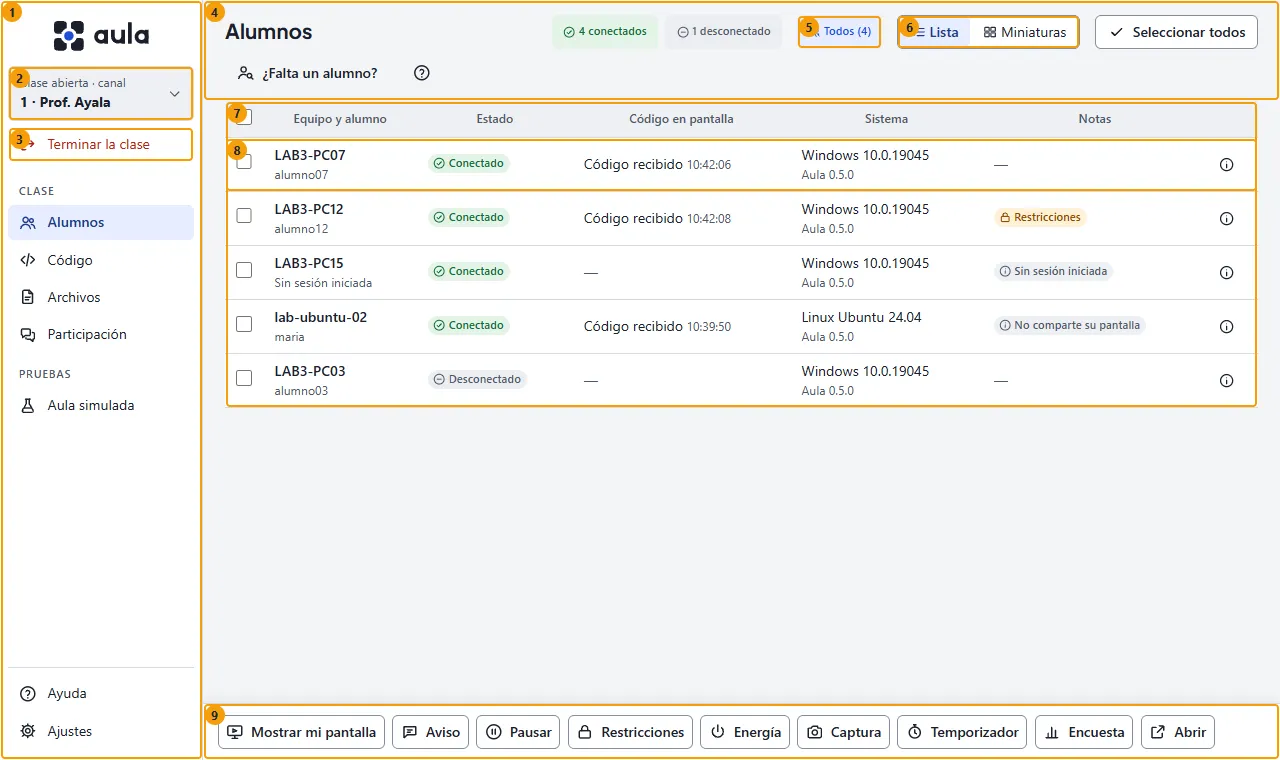
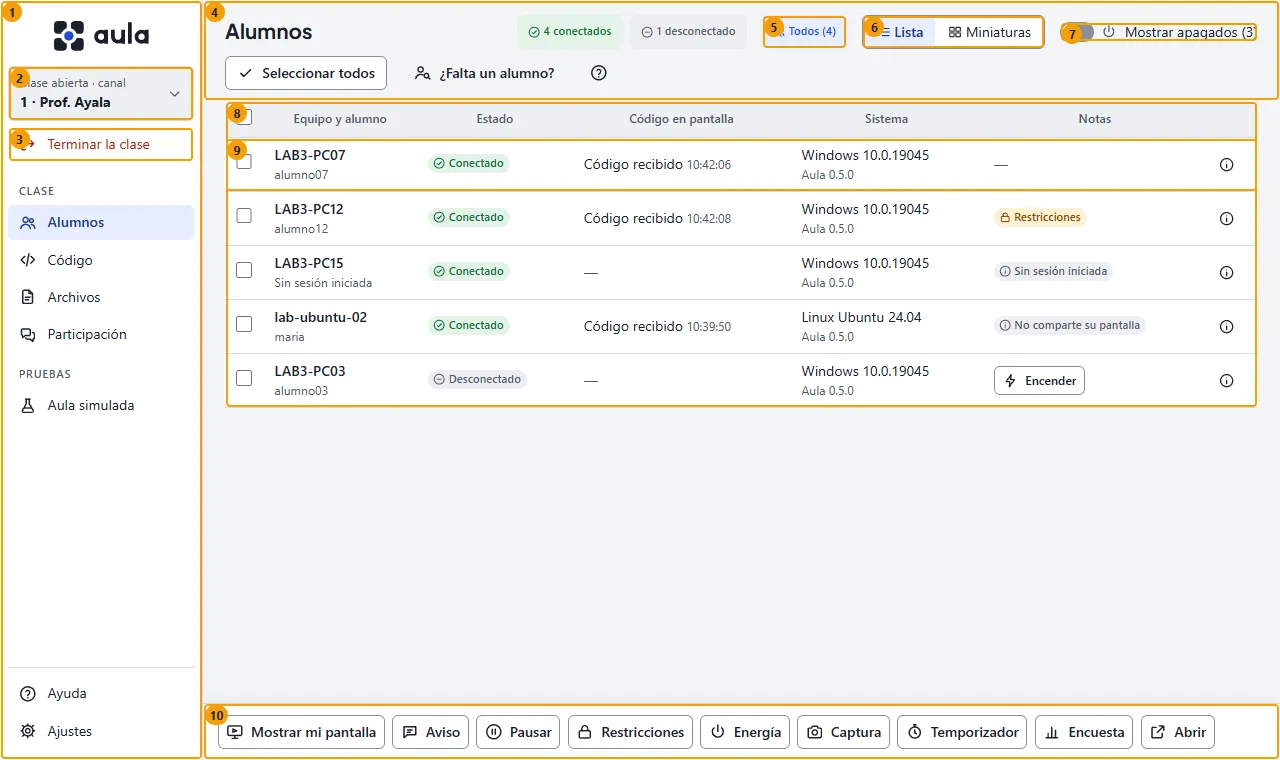
documentacion(ux): zona Mostrar apagados, mapa, historial y propuesta P-04
Nombra la zona nueva, regenera el mapa, deja las decisiones de ubicación de 10.19 y anota el
relevo por otra subred como propuesta en lugar de implementarlo.

diff --git a/docs/ux/MAPA.md b/docs/ux/MAPA.md
@@ -20,9 +20,10 @@ archivo y sus imágenes los genera `node scripts/ux/mapa.mjs` (no se editan a ma
 | 4 | **Cabecera de la vista** | Título de la vista, su resumen y el «?» de ayuda contextual. |
 | 5 | **Selección** | A quién van las acciones de la barra: «Todos (n)» o «n seleccionados», con su explicación en el tooltip. |
 | 6 | **Selector Lista | Miniaturas** | Cambia entre la tabla y las miniaturas de pantalla. |
-| 7 | **Lista de alumnos** | Tabla con un alumno por fila. |
-| 8 | **Fila del alumno** | Un alumno: casilla, equipo, estado, insignias y el botón de su ficha. |
-| 9 | **Barra de acciones** | Abajo: lo que se aplica a la selección (aviso, transmitir, pausar, restricciones, captura, temporizador, encuesta, energía…). |
+| 7 | **Mostrar apagados** | Muestra en la lista los equipos que la consola conoce y no están conectados, con Encender y Olvidar; solo en Lista y se recuerda (prompt 10.19). |
+| 8 | **Lista de alumnos** | Tabla con un alumno por fila. |
+| 9 | **Fila del alumno** | Un alumno: casilla, equipo, estado, insignias y el botón de su ficha; en un equipo sin conexión, Encender. |
+| 10 | **Barra de acciones** | Abajo: lo que se aplica a la selección (aviso, transmitir, pausar, restricciones, captura, temporizador, encuesta, energía…). |
 
 ### Consola · Alumnos (miniaturas)
 
@@ -265,8 +266,9 @@ También las que no salen en una imagen (diálogos y paneles). El `id` es el que
 | `alumnos` | Vista Alumnos | Los alumnos del canal, en lista o miniaturas. |
 | `alumnos-modo` | Vista Alumnos › Selector Lista | Miniaturas | Cambia entre la tabla y las miniaturas de pantalla. |
 | `alumnos-lista` | Vista Alumnos › Lista de alumnos | Tabla con un alumno por fila. |
-| `fila-alumno` | Vista Alumnos › Lista de alumnos › Fila del alumno | Un alumno: casilla, equipo, estado, insignias y el botón de su ficha. |
+| `fila-alumno` | Vista Alumnos › Lista de alumnos › Fila del alumno | Un alumno: casilla, equipo, estado, insignias y el botón de su ficha; en un equipo sin conexión, Encender. |
 | `alumnos-seleccion` | Vista Alumnos › Selección | A quién van las acciones de la barra: «Todos (n)» o «n seleccionados», con su explicación en el tooltip. |
+| `alumnos-apagados` | Vista Alumnos › Mostrar apagados | Muestra en la lista los equipos que la consola conoce y no están conectados, con Encender y Olvidar; solo en Lista y se recuerda (prompt 10.19). |
 | `alumnos-tamano` | Vista Alumnos › Tamaño de las miniaturas | Pequeño, Mediano, Grande, Extra grande o Ajustar a la pantalla; solo en Miniaturas y se recuerda. |
 | `alumnos-miniaturas` | Vista Alumnos › Miniaturas | Cuadrícula con la pantalla de cada alumno. |
 | `tarjeta-alumno` | Vista Alumnos › Miniaturas › Tarjeta del alumno | La miniatura de un alumno como un monitor, con su nombre; un clic en la pantalla abre la Pantalla grande. |
@@ -286,7 +288,7 @@ También las que no salen en una imagen (diálogos y paneles). El `id` es el que
 | `panel-restricciones` | Panel Restricciones | Bloquear aplicaciones y filtrar sitios. |
 | `panel-captura` | Panel Captura | Tomar capturas de varios alumnos. |
 | `panel-temporizador` | Panel Temporizador | Lanzar un temporizador de ejercicio. |
-| `panel-energia` | Panel Energía | Apagar, reiniciar o cerrar sesión. |
+| `panel-energia` | Panel Energía | Apagar, reiniciar, cerrar sesión o encender los equipos apagados. |
 | `panel-encuesta` | Panel Encuesta | La pregunta, el tipo de respuesta, las opciones y «Ver quién respondió qué»; Lanzar a todos o a la selección. |
 | `panel-abrir` | Panel Abrir página o app | Abrir una página en el navegador o una app permitida en los equipos de la selección, y las últimas que abriste. |
 | `captura` | Vista previa de captura | La captura de un alumno, con Guardar y Descartar. |

diff --git a/docs/ux/historial/encender-equipos.md b/docs/ux/historial/encender-equipos.md
@@ -1,0 +1,58 @@
+# Encender equipos (10.19): ubicación y decisiones
+
+Estado: **implementado, sin commit** (12/11/2026). Prompt
+`docs/prompts/10.19-encender-equipos-wake-on-lan.md`, con `/funcionalidad-nueva 10.19`. Sin capturas
+versionadas: las del arnés son `scripts/ux/salida/189-194` y salen en el CI. El mapa tiene la zona
+«Mostrar apagados» en «Consola · Alumnos (lista)» (`docs/ux/mapa/consola-alumnos.webp`).
+
+## Análisis
+
+Un equipo apagado no tiene agente, así que encenderlo no es un mensaje del protocolo: la consola
+recuerda la MAC que cada agente manda en `hello` y manda el paquete mágico por la red. En la
+interfaz, eso trae dos cosas que no existían:
+
+- **Equipos que no son sesiones.** Hasta ahora la lista solo mostraba sesiones: conectadas y
+  desconectadas desde que abrió la consola. Un equipo apagado desde ayer no estaba en ningún lado.
+- **Una acción sobre un equipo sin pantalla.** La regla «acción sobre un alumno → Pantalla grande»
+  no aplica: no hay pantalla que ver. Y la Ficha solo informa.
+
+10.15 (mapa del aula) todavía no existe, así que el «asiento vacío» que proponía el prompt no
+estaba disponible.
+
+## Opciones de ubicación presentadas
+
+1. **Panel Energía + Fila del alumno** (recomendada, **elegida**): «Encender» como cuarta opción
+   del Panel Energía, para los apagados de la selección o de todo el canal, y un botón «Encender»
+   en la Fila del alumno de cada equipo sin conexión. Junta todo lo de energía en un lugar y deja
+   el atajo para uno.
+2. **Solo la Fila y la cabecera:** botón en cada fila y «Encender todos los apagados» junto al
+   filtro. Saca una acción de energía del panel donde están las demás.
+3. **Solo el Panel Energía:** la fila solo muestra el estado. Encender uno obliga a marcarlo y
+   abrir el panel.
+
+Para mostrar los apagados: un **interruptor «Mostrar apagados (n)»** en la cabecera (elegido),
+oculto por defecto y que se recuerda, o un grupo siempre visible al final. Se eligió el
+interruptor para no llenar la lista durante la clase.
+
+## Decisiones
+
+- **La Fila del alumno es la excepción a la Pantalla grande**, solo para equipos sin conexión.
+  Los desconectados de esta sesión de la consola muestran «Encender» en Notas; los conocidos sin
+  sesión van en el grupo «Apagados (n)», con «Visto hoy a las…» y, en lugar del botón de ficha,
+  **Olvidar** (que borra su MAC).
+- **«Encendiendo… m:ss» y «No respondió» reemplazan el estado** en la columna Estado; «Otra red»
+  y «¿Por qué?» (al manual) van en Notas. Sin franja global: encender no sigue activo, termina en
+  3 minutos.
+- **En el panel**, Encender oculta el tiempo y «Forzar» y la línea «Para n equipos» (que cuenta
+  a los conectados), y dice cuántos sin conexión le tocan y cuántos no se pueden encender por
+  tener un agente anterior. El botón es primario, no de peligro, y **no pide confirmación**:
+  encender no le hace nada a un equipo que ya está encendido.
+- **Icono nuevo `encender`** (un rayo) en `internal/ui/iconos.svg`. `energia` sigue siendo apagar.
+- **Ficha › Qué puede hacer su equipo** suma «Encender desde la consola» (se conoce su MAC).
+- **El relevo** por un agente de otra subred no entró (P-04 en `docs/ux/PROPUESTAS.md`).
+
+## Resultados
+
+Escenas 189–194 sin errores de JS ni violaciones serias de axe, en claro, en oscuro y a 900×600.
+Lo nativo (que un equipo arranque de verdad) queda para el laboratorio: casos C-121 a C-126 y
+A-53 de `docs/desarrollo/probar-consola-local.md`.

diff --git a/docs/ux/PROPUESTAS.md b/docs/ux/PROPUESTAS.md
@@ -45,6 +45,22 @@ SemVer).
   por centro. Recomendación: decidirlo con 10.13 (cuentas por alumno), que separa el trabajo de
   cada grupo.
 
+## P-04 · Encender equipos de otra subred por relevo
+
+- **Pide:** prompt 10.19: que la consola pueda encender equipos aunque esté en otra subred o VLAN
+  que el laboratorio, donde su paquete mágico no llega (el broadcast no cruza routers).
+- **Hoy:** la consola manda el paquete por su propia red (§5.15.2) y avisa «Otra red» cuando no
+  está en la del equipo. Decisión del 2026-11-12: el relevo no entra en esta versión.
+- **Necesitaría:** un mensaje `power.wake` (P → A, `{macs: [...]}`) con la capacidad `power.wake`:
+  un agente ya encendido de esa subred manda los paquetes por su red. Límites: hasta 32 MAC por
+  mensaje y 64 por minuto, solo paquetes mágicos (102 bytes al puerto 9 del broadcast de su
+  propia tarjeta), nunca UDP arbitrario. Compatible si es opcional (versión menor).
+- **Seguridad y riesgo:** el agente pasaría a mandar tráfico de red por orden de la consola. Es
+  poco, pero amplía lo que una consola con la clave del centro puede hacer en la red del alumno.
+  También hace falta que quede un equipo encendido en esa subred. Recomendación: esperar a que un
+  laboratorio real lo necesite; mientras, que sistemas deje pasar el broadcast dirigido hacia la
+  VLAN del laboratorio.
+
 ## Notas (no son cambios de protocolo)
 
 - **Columna «Canal»** (Fase 3, punto 2): no se agrega a la lista porque todos los alumnos que ve la
